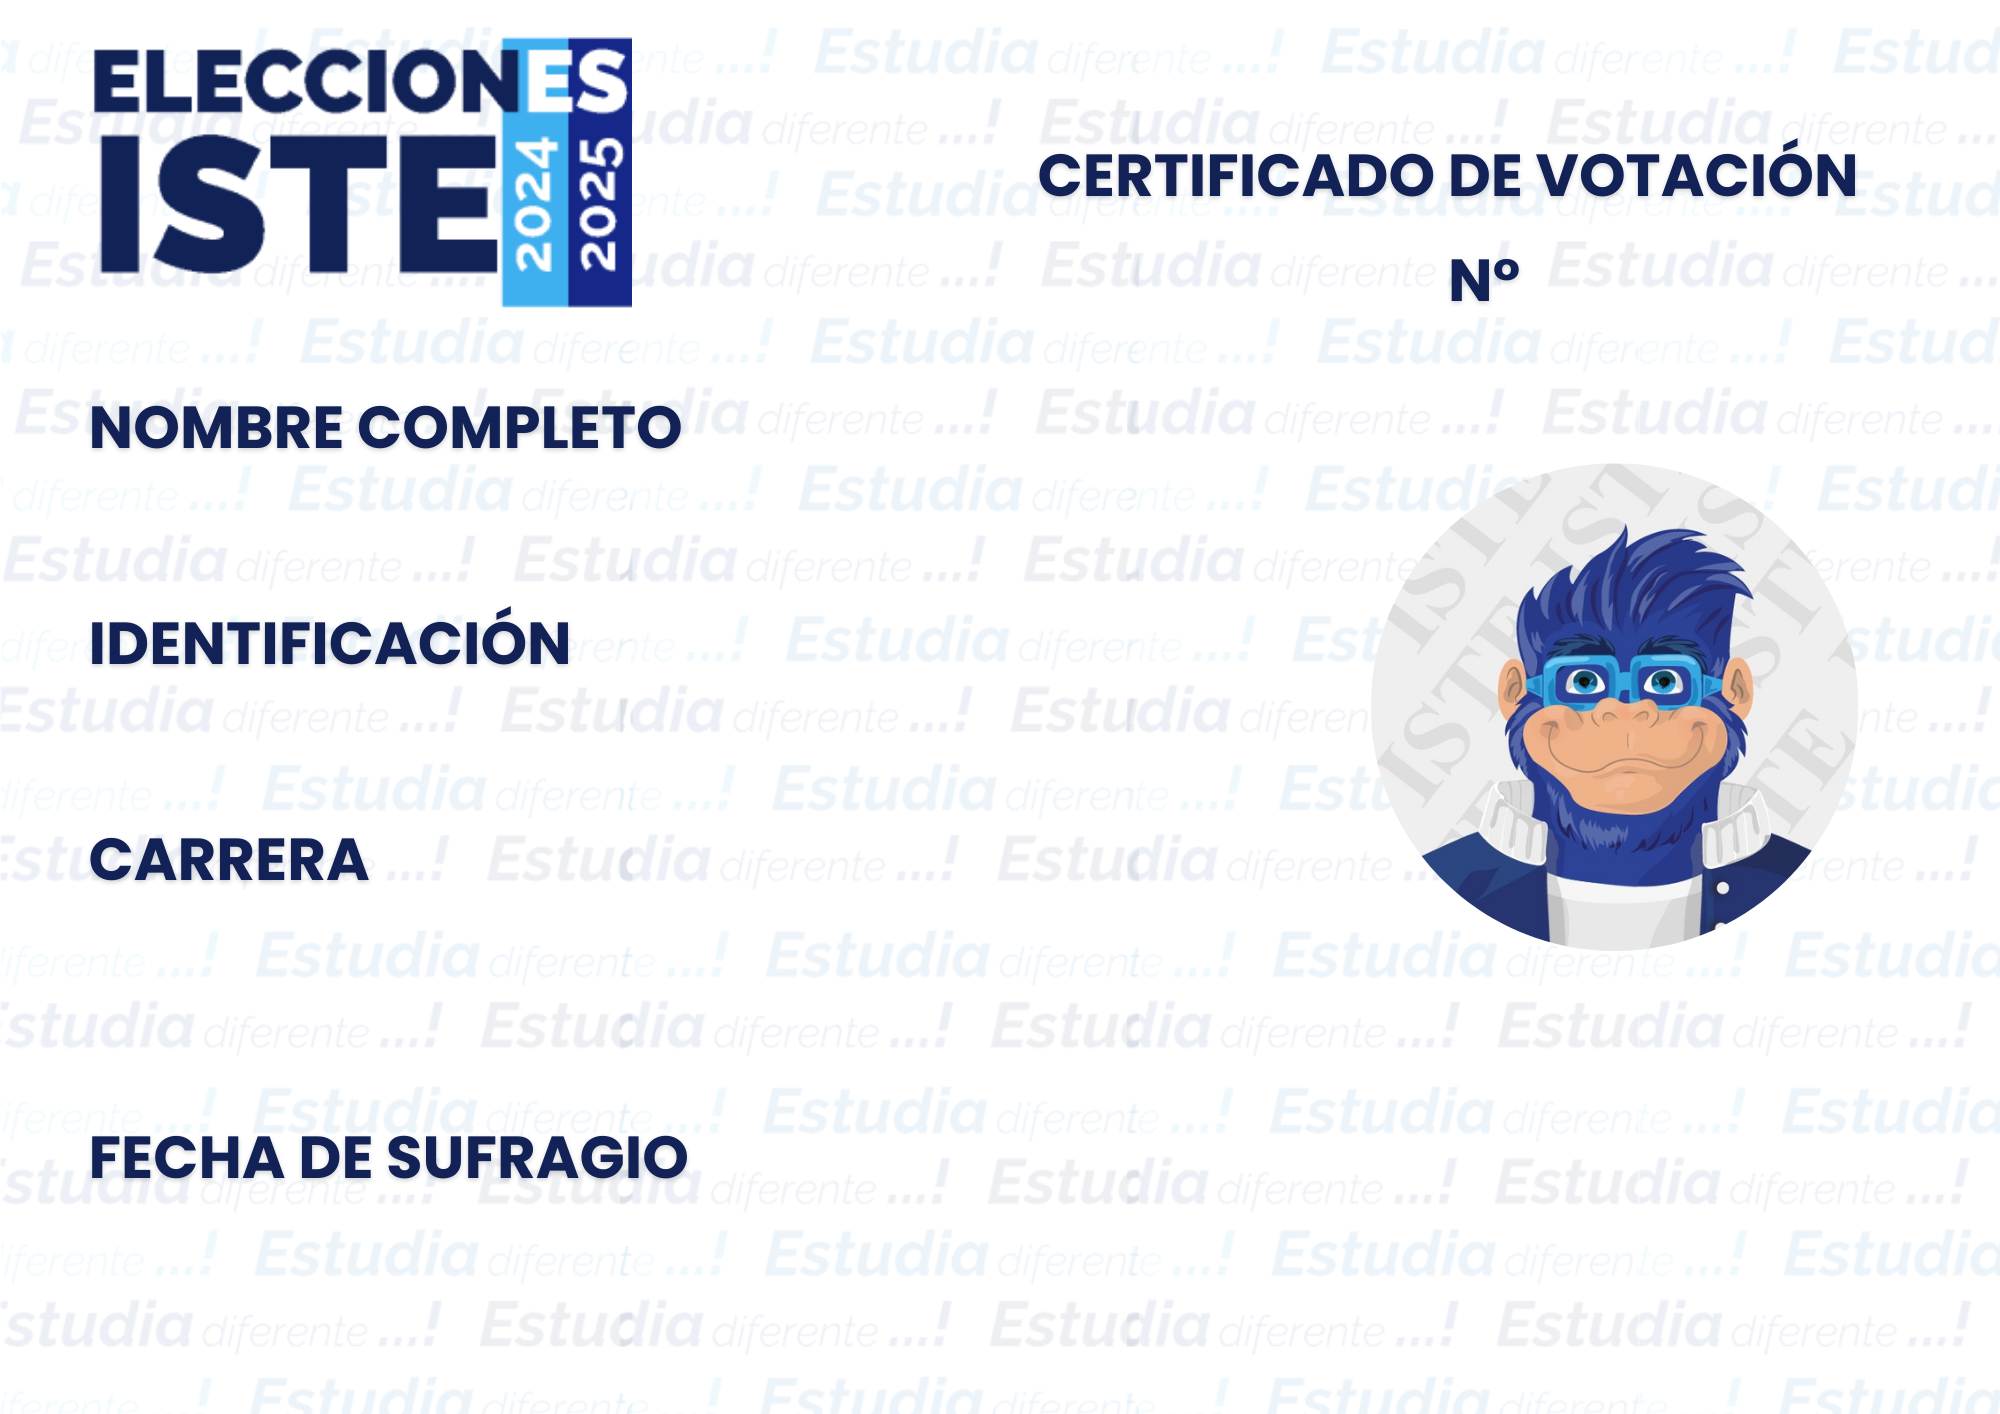
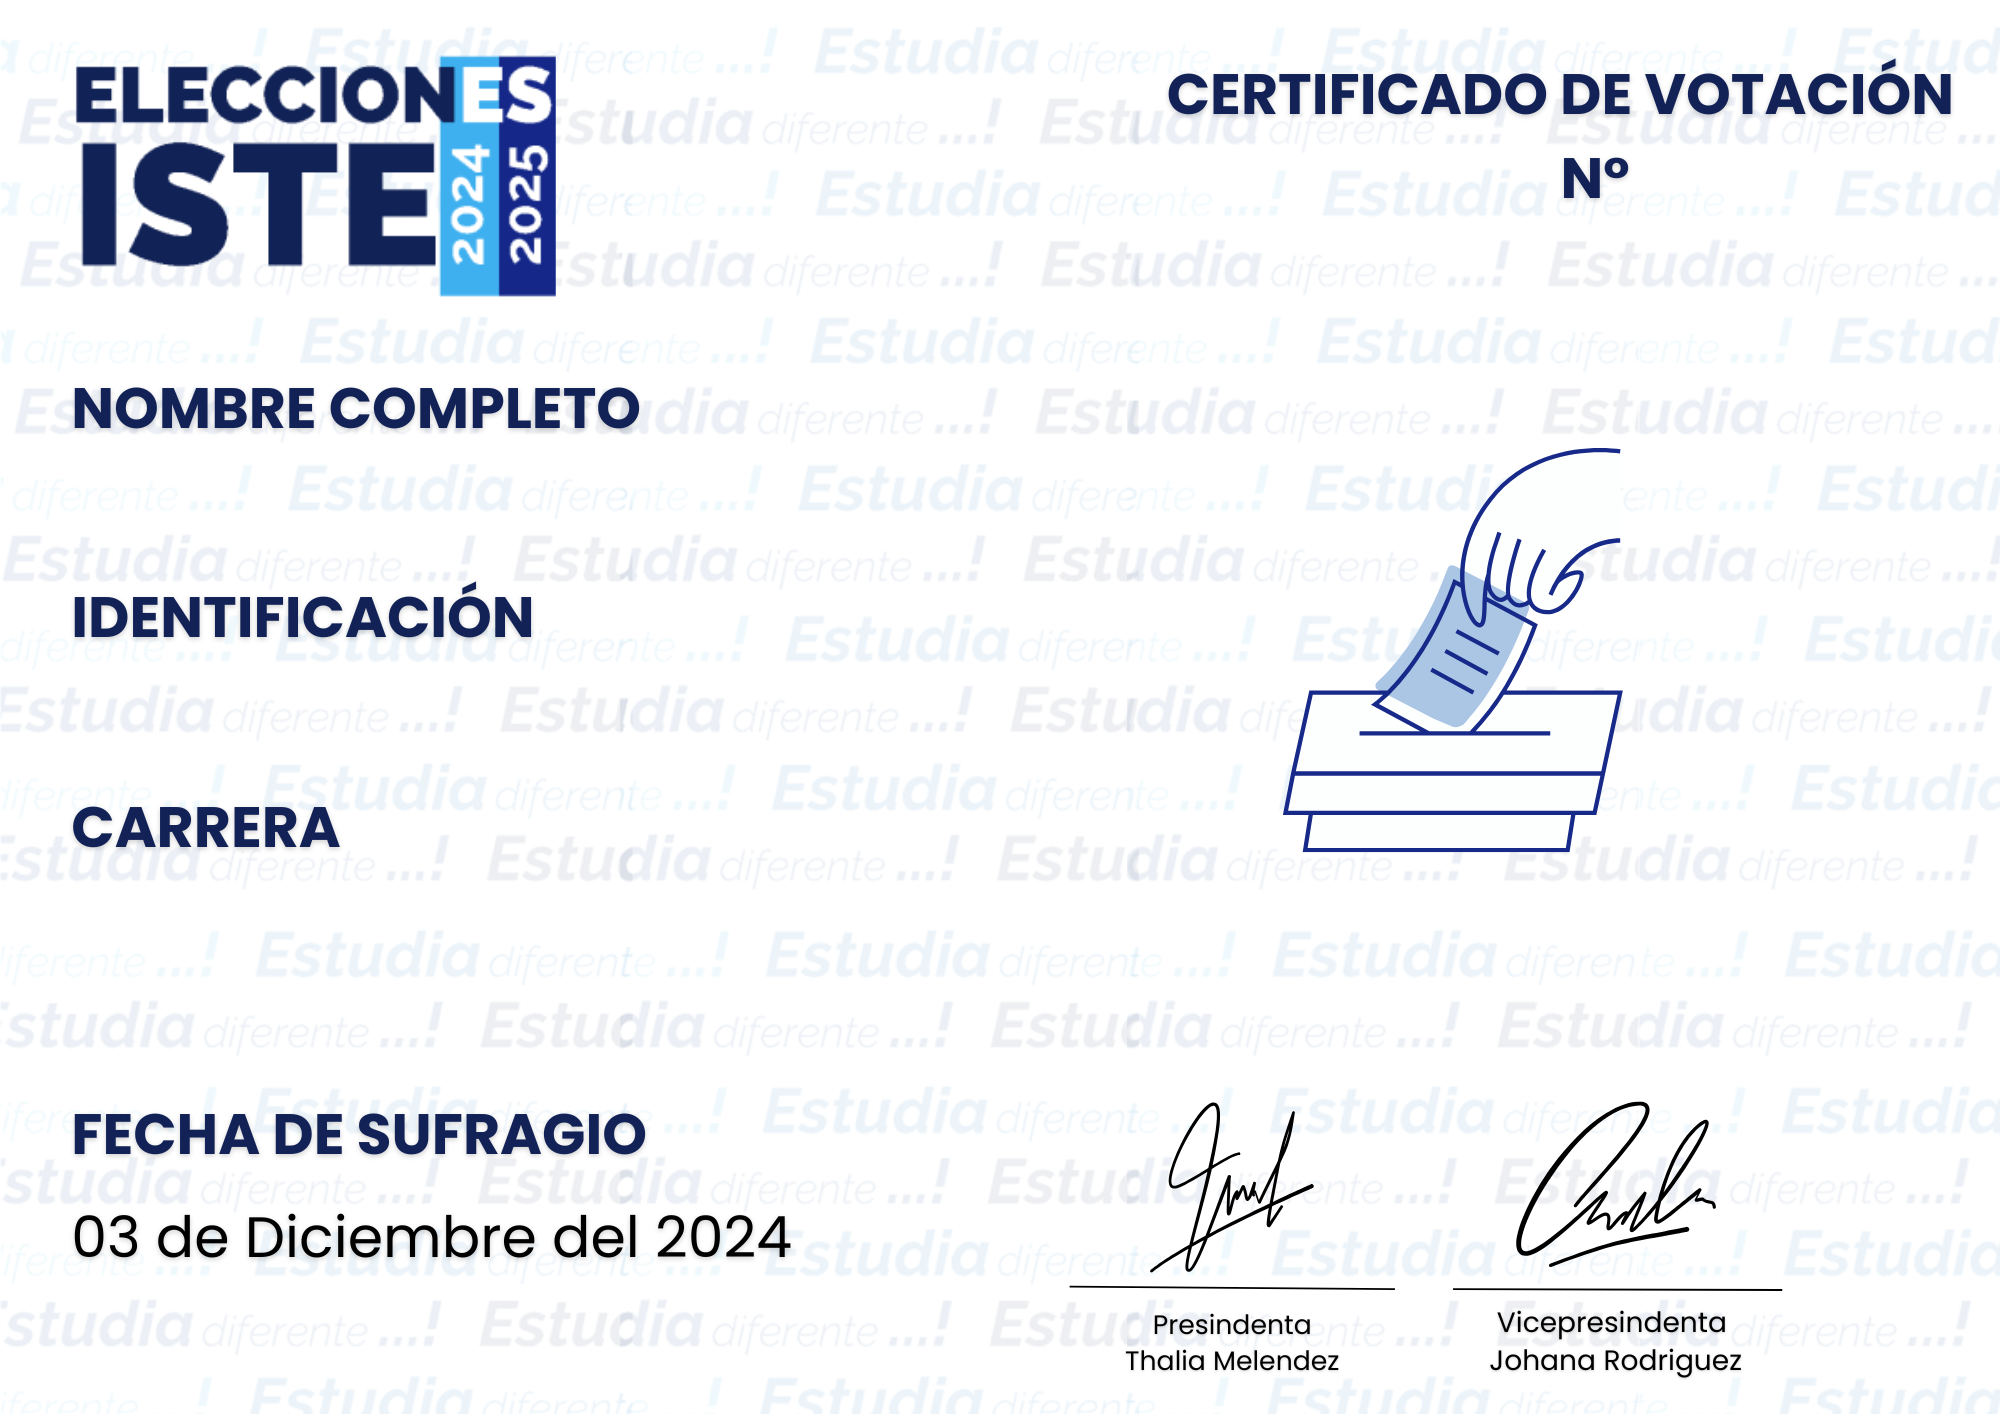
cambio de plantilla y endpoint

diff --git a/main.py b/main.py
@@ -5,7 +5,6 @@ from typing import List
 from PIL import Image, ImageDraw, ImageFont
 from barcode import Code128
 from barcode.writer import ImageWriter
-import aiohttp
 import io
 import os
 from azure.storage.blob import BlobServiceClient, ContentSettings
@@ -17,10 +16,9 @@ import time
 app = FastAPI()
 
 # Configuración general
-TEMPLATE_PATH = "template/plantilla2.png"
+TEMPLATE_PATH = "template/plantilla.png"
 FONT_BOLD_PATH = "font/Poppins-Bold.ttf"
 FONT_REGULAR_PATH = "font/Poppins-Regular.ttf"
-FECHA_SUFRA = "03 de Diciembre del 2024"
 BLOB_ACCOUNT_URL = "https://votacionesalmacenamiento.blob.core.windows.net/"
 CONTAINER_NAME = "certificados"
 SAS_TOKEN = "sp=racwl&st=2024-11-16T22:36:04Z&se=2025-11-17T23:00:00Z&spr=https&sv=2022-11-02&sr=c&sig=yrGG5iaE7vwIwK3f5WDsd8obOP6aNyLKt%2FktAUBKEMY%3D"
@@ -29,9 +27,14 @@ SAS_TOKEN = "sp=racwl&st=2024-11-16T22:36:04Z&se=2025-11-17T23:00:00Z&spr=https&
 logging.basicConfig(level=logging.INFO, format="%(asctime)s - %(message)s")
 logger = logging.getLogger("CertificateAPI")
 
-# Deshabilitar logs del SKD de Azure
+# Deshabilitar logs del SDK de Azure
 azure_logger = logging.getLogger("azure")
 azure_logger.setLevel(logging.WARNING)
+
+# Variables de caché
+template_image = None
+font_bold = None
+font_regular = None
 
 # Modelo de datos
 class CertificateData(BaseModel):
@@ -42,25 +45,45 @@ class CertificateData(BaseModel):
     rol: str
 
 
-# Descargar plantilla desde la URL
-async def fetch_image_from_url(url: str) -> Image:
-    async with aiohttp.ClientSession() as session:
-        async with session.get(url) as response:
-            if response.status != 200:
-                raise HTTPException(status_code=500, detail="Error al descargar la plantilla.")
-            content = await response.read()
-            return Image.open(io.BytesIO(content))
+# Cargar recursos al inicio
+def load_resources():
+    global template_image, font_bold, font_regular
+
+    # Verificar plantilla
+    if not os.path.exists(TEMPLATE_PATH):
+        raise RuntimeError(f"No se encontró la plantilla en la ruta: {TEMPLATE_PATH}")
+    try:
+        template_image = Image.open(TEMPLATE_PATH)
+        logger.info("Plantilla cargada correctamente.")
+    except Exception as e:
+        raise RuntimeError(f"Error al cargar la plantilla: {e}")
+
+    # Verificar fuentes
+    if not os.path.exists(FONT_BOLD_PATH):
+        raise RuntimeError(f"No se encontró la fuente en negrita en la ruta: {FONT_BOLD_PATH}")
+    if not os.path.exists(FONT_REGULAR_PATH):
+        raise RuntimeError(f"No se encontró la fuente regular en la ruta: {FONT_REGULAR_PATH}")
+    try:
+        font_bold = ImageFont.truetype(FONT_BOLD_PATH, 60)
+        font_regular = ImageFont.truetype(FONT_REGULAR_PATH, 60)
+        logger.info("Fuentes cargadas correctamente.")
+    except Exception as e:
+        raise RuntimeError(f"Error al cargar las fuentes: {e}")
 
 
 # Generar código de barras
 def generate_barcode(data: str) -> Image:
-    writer = ImageWriter()
-    barcode_instance = Code128(data, writer=writer)
-    buffer = io.BytesIO()
-    options = {'write_text': False}
-    barcode_instance.write(buffer, options)
-    buffer.seek(0)
-    return Image.open(buffer)
+    try:
+        writer = ImageWriter()
+        barcode_instance = Code128(data, writer=writer)
+        buffer = io.BytesIO()
+        options = {'write_text': False}
+        barcode_instance.write(buffer, options)
+        buffer.seek(0)
+        barcode_image = Image.open(buffer)
+        return barcode_image.rotate(90, expand=True) # Rotar el codigo de barras 90 grados
+    except Exception as e:
+        raise RuntimeError(f"Error al generar el código de barras: {e}")
 
 
 # Subir imagen al Blob Storage
@@ -77,35 +100,34 @@ async def upload_to_azure_blob(image_data: bytes, blob_name: str) -> str:
 
 
 # Procesar un certificado individual
-async def process_certificate(data: CertificateData, template: Image, font_bold, font_regular) -> dict:
+async def process_certificate(data: CertificateData) -> dict:
     try:
         start_time = time.time()
         logger.info(f"Iniciando proceso para identificación: {data.identificacion}")
 
         # Copiar plantilla
-        template_copy = template.copy()
+        template_copy = template_image.copy()
         draw = ImageDraw.Draw(template_copy)
 
         # Coordenadas de textos generales
         text_positions = {
-            "numeracion": (1600, 245),
-            "nombre": (90, 500),
-            "identificacion": (90, 710),
-            "fecha": (90, 1220),
-            "rol": (1480, 1000),
+            "numeracion": (1650, 137),
+            "nombre": (70, 460),
+            "identificacion": (70, 680),
+            "rol": (1260, 900),
         }
 
         # Dibujar textos generales
         for key, position in text_positions.items():
-            text = FECHA_SUFRA if key == "fecha" else getattr(data, key)
+            text = getattr(data, key)
             font = font_regular if key not in ['numeracion', 'rol'] else font_bold
-            color = "black" if key not in ['numeracion', 'rol'] else "#3185D6"
+            color = "#000000" if key not in ['numeracion', 'rol'] else "#3185D6"
             draw.text(position, text, font=font, fill=color)
 
         # Manejo del texto "carrera"
         carrera = data.carrera
-        carrera_primary_position = (90, 925)
-        carrera_secondary_position = (90, 1000)
+        carrera_primary_position = (70, 880)
+        carrera_secondary_position = (70, 970)
 
         max_width = 900
         lines = []
@@ -126,8 +148,8 @@ async def process_certificate(data: CertificateData, template: Image, font_bold,
             draw.text(carrera_secondary_position, lines[1], font=font_regular, fill="black")
 
         # Generar código de barras
-        barcode_image = generate_barcode(data.identificacion).resize((450, 150))
-        barcode_position = (1400, 1100)
+        barcode_image = generate_barcode(data.identificacion).resize((150, 1300))
+        barcode_position = (1830, 210)
         template_copy.paste(barcode_image, barcode_position)
 
         logger.info(f"Certificado generado para identificación: {data.identificacion} en {time.time() - start_time:.2f} segundos")
@@ -156,19 +178,21 @@ async def process_certificate(data: CertificateData, template: Image, font_bold,
 async def generate_certificates(data_list: List[CertificateData]):
     try:
         logger.info(f"Procesando un lote de {len(data_list)} certificados.")
-
-        # Descargar plantilla y fuentes
-        template = await fetch_image_from_url(TEMPLATE_PATH)
-        font_bold = ImageFont.truetype(FONT_BOLD_PATH, 50)
-        font_regular = ImageFont.truetype(FONT_REGULAR_PATH, 50)
-
-        # Procesar cada certificado concurrentemente
-        tasks = [process_certificate(data, template, font_bold, font_regular) for data in data_list]
+        tasks = [process_certificate(data) for data in data_list]
         results = await asyncio.gather(*tasks)
-
         logger.info("Proceso de generación y subida completado.")
         return JSONResponse(content={"results": results}, status_code=200)
 
     except Exception as e:
         logger.error(f"Error general en el proceso: {e}")
         raise HTTPException(status_code=500, detail=str(e))
+
+
+# Evento de inicio para cargar recursos
+@app.on_event("startup")
+def on_startup():
+    try:
+        load_resources()
+    except RuntimeError as e:
+        logger.error(f"Error al cargar recursos: {e}")
+        raise RuntimeError(f"Error al cargar recursos: {e}")
